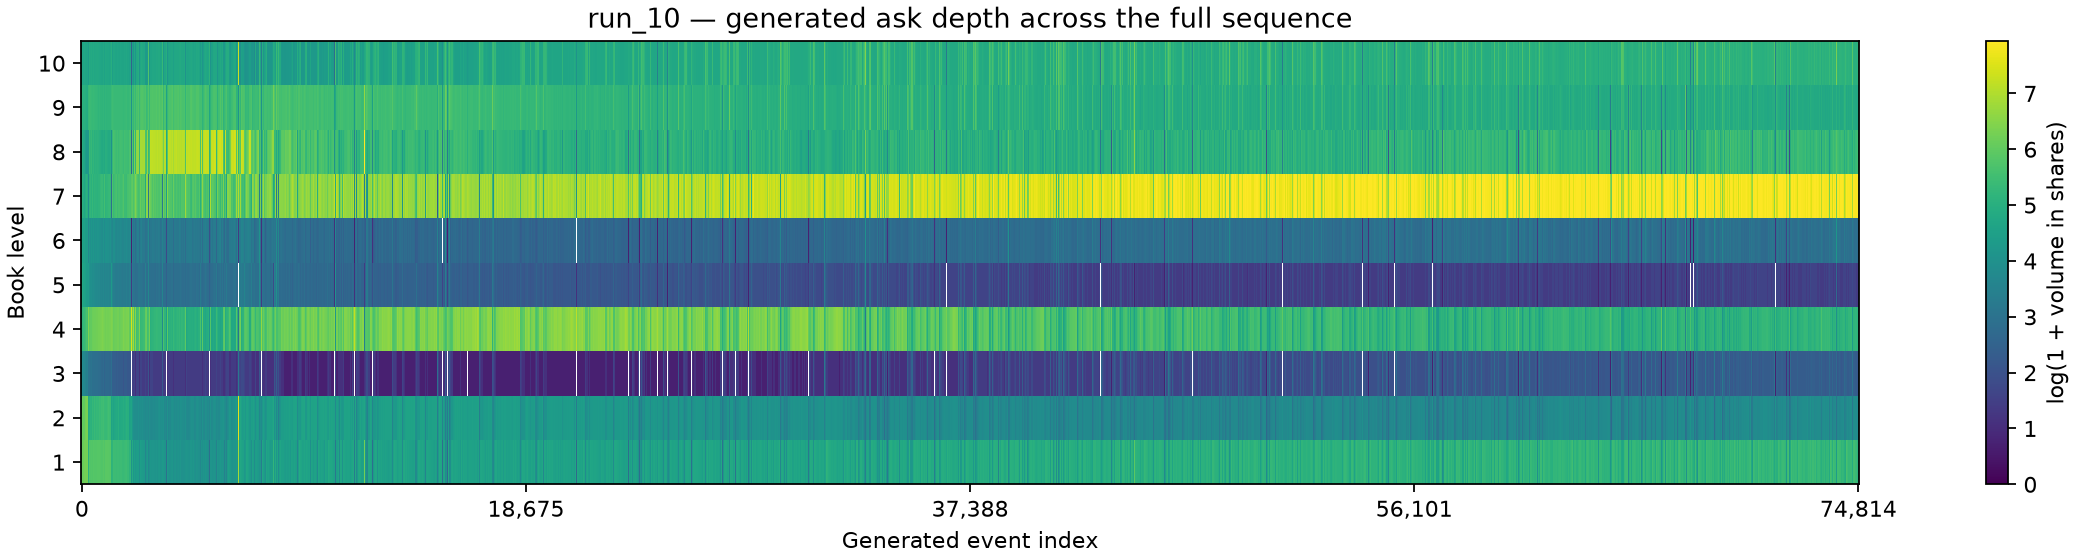
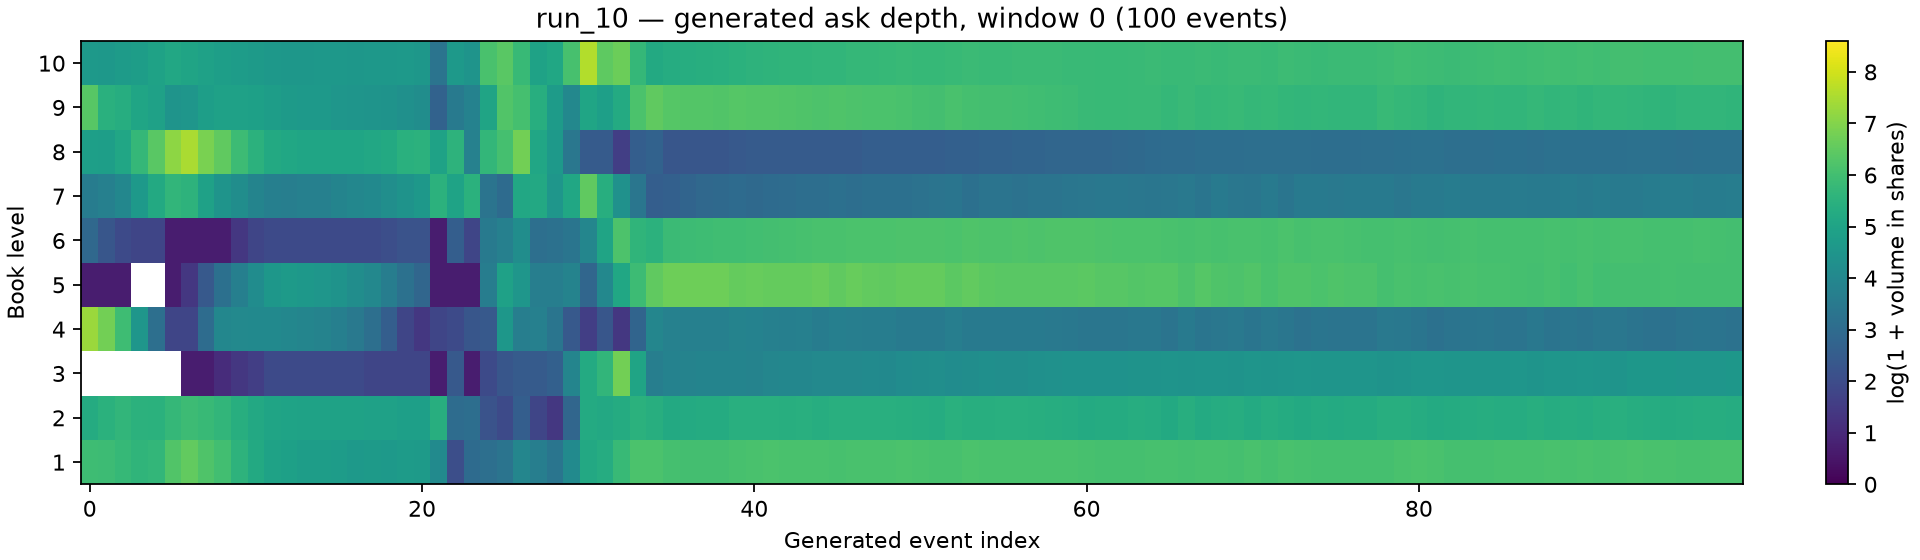
more docs and generated orderbook figs

diff --git a/recognition/TimeGAN_48739302/README.md b/recognition/TimeGAN_48739302/README.md
@@ -18,8 +18,6 @@ Targets: **KL <= 0.1** for spreads and returns, and **SSIM > 0.6**. KL is measur
 | run_08 | 0.4085 | 0.0952 | 0.0437 | 0.8123 | 0.5692 | 0.0999 | 0.1443 |
 | run_10 | 0.0986 | 0.0524 | 0.0433 | 0.8178 | 0.6929 | 0.1134 | 0.1457 |
 
-[Download the results table](results/run_metrics.csv).
-
 **run_10 meets all three KL targets and both mean-heatmap SSIM targets.** run_06, run_07, and run_08 meet the return KL targets but miss the spread target. run_07 has the highest price-indexed mean SSIM among the runs shown.
 
 Mean-heatmap SSIM compares average depth profiles across 500 windows. Pair SSIM compares individual, unpaired real and generated windows. These measure different properties: **none of the runs shown achieves pair SSIM above 0.6**. The mean-map results therefore do not establish realistic individual event dynamics.
@@ -60,6 +58,20 @@ Spread KL is 0.0986, one-step return KL is 0.0524, and ten-step return KL is 0.0
 
 ![Real and generated order-book depth for run_10](figs/orderbooks/run_10.png)
 
+## run_10: generated period
+
+All figures and the animation below show **generated window 0: 100 events, indexed 0–99**, matching the run_10 order-book example and the generation horizon used for the reported metrics. Every event is displayed; these are generated-only views of the same window, not a longer extrapolated sequence. Event index is not clock time.
+
+![run_10 generated midprice, spread and imbalance over 100 events](figs/orderbooks/run_10_test_period_overview.png)
+
+![run_10 generated bid depth over 100 events](figs/orderbooks/run_10_test_period_bid_depth.png)
+
+![run_10 generated ask depth over 100 events](figs/orderbooks/run_10_test_period_ask_depth.png)
+
+The animation displays all ten bid volumes (blue) and ten ask volumes (orange) at each of the 100 events. The volume axis stays fixed, and playback is 10 frames per second.
+
+![run_10 generated volumes across the 100-event evaluation window](figs/orderbooks/run_10_generated_volumes.gif)
+
 ## Model and development notes
 
 The model combines an embedder, recoverer, generator, supervisor, and discriminator. Autoencoder pretraining learns the feature representation; supervisor pretraining learns next-step latent dynamics; joint adversarial training learns generation and reconstruction together.
@@ -73,17 +85,9 @@ The representation expanded from 40 features in run_01 to 42 in the evaluated ru
 - Spread KL uses real-data quantile bins; one-step return KL uses half-tick bins; ten-step return KL uses real-data quantile bins. All runs use the same real test reference.
 - The figures illustrate single windows; the scores summarise the full evaluation set. Neither the figures nor passing histogram scores establish that event sparsity and temporal dependence are correct.
 
-## Plotting
+## Source files
 
-With the local evaluation arrays and LOBSTER data available:
-
-```bash
-venv/bin/python plot_notable_orderbooks.py
-```
-
-Training losses can be plotted from saved console output:
-
-```bash
-venv/bin/python plot_losses.py print_log.txt
-venv/bin/python plot_selected_losses.py print_log.txt
-```
+- [dataset.py](dataset.py): LOBSTER loading, feature layout, and training-fitted standardisation.
+- [modules.py](modules.py): recurrent networks, training objectives, and generation.
+- [train.py](train.py): training stages, and validation.
+- [predict.py](predict.py): model loading, feature decoding, and generated output formats.
